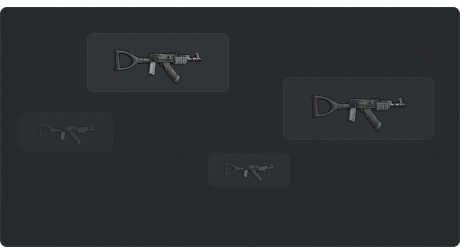
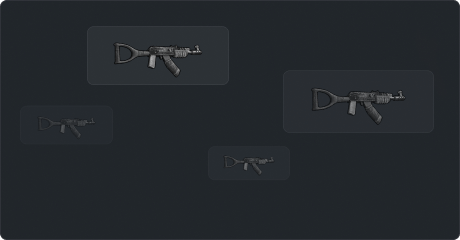
update files

diff --git a/src/styles/WhySection.css b/src/styles/WhySection.css
@@ -1,5 +1,5 @@
 .why-section {
-  padding: 100px 0;
+  padding: 60px 0 100px 0;
   position: relative;
   overflow: hidden;
 }
@@ -23,7 +23,7 @@
   left: 0;
   width: 100%;
   height: 100%;
-  background: rgba(28, 31, 35, 0.9);
+  background-color: rgba(10, 10, 10, 0.8);;
 }
 
 .why-container {
@@ -79,13 +79,17 @@
 
 /* Общие стили карточек */
 .why-card {
+  /* display: grid; */
+  display: flex;
+  flex-direction: column;
+  height: 100%;
+  /* position: relative; */
+  padding-bottom: 60px;
   background: rgba(255, 255, 255, 0.05);
   border: 1px solid rgba(255, 255, 255, 0.1);
   border-radius: 12px;
-  padding: 24px;
+  padding: 0px 23px 25px 20px;
   transition: all 0.3s ease;
-  display: flex;
-  flex-direction: column;
   overflow: hidden;
   box-sizing: border-box; /* Важно для правильного расчета размеров */
 }
@@ -97,33 +101,36 @@
   box-shadow: 0 10px 20px rgba(255, 68, 68, 0.2);
 }
 
-.card-header {
-  margin-bottom: 16px;
-}
-
 .card-title {
-  font-size: 20px;
+  font-size: 34px;
+  line-height: 1.1;
   font-weight: 700;
   color: #FFFFFF;
-  margin-bottom: 8px;
-}
-
-.card-price {
-  font-size: 24px;
-  font-weight: 800;
-  color: #FF4444;
-  display: block;
 }
 
 .card-description {
-  font-size: 14px;
+  margin-top: 5px;
+  font-size: 18px;
   color: rgba(255, 255, 255, 0.7);
   line-height: 1.6;
   flex-grow: 1;
 }
 
+.card-1,
+.card-2,
+.card-3,
+.card-4,
+.card-5,
+.card-6, .card-header {
+  display: flex;
+  flex-direction: column;
+  justify-content: end;
+  height: 100%; /* Занимает всю высоту карточки */
+}
+
 /* Карточка 1: 364px × 500px (высота 2 блока) */
 .card-1 {
+  margin-top: auto;
   grid-column: 1 / 2;
   grid-row: 1 / 3;
   width: 364px;

diff --git a/src/components/WhySection.jsx b/src/components/WhySection.jsx
@@ -5,7 +5,7 @@ const WhySection = () => {
   return (
     <section className="why-section" id="why">
       <div className="why-background">
-        {/* <div className="bg-overlay"></div> */}
+        <div className="bg-overlay"></div>
       </div>
 
       <div className="why-container">
@@ -26,9 +26,9 @@ const WhySection = () => {
               <div className="card-header">
                 <h3 className="card-title">Обширный выбор</h3>
               </div>
-              <p className="card-description">
-                Мы предлагаем читы для самых различных игр, включая популярные игры.
-              </p>
+                <p className="card-description">
+                  Мы предлагаем читы для самых различных игр, включая популярные игры.
+                </p>
             </div>
 
             <div className="why-card card-2">

diff --git a/src/styles/MainSection.css b/src/styles/MainSection.css
@@ -1,6 +1,6 @@
 .main-section {
   /* font-family: 'Gilroy', sans-serif; */
-  min-height: calc(100vh - 70px);
+  height: calc(100vh - 350px);
   display: flex;
   align-items: center;
   padding: 60px 0;
@@ -22,7 +22,7 @@
   z-index: 1;
 }
 
-.background-overlay {
+/* .background-overlay {
   position: absolute;
   top: 0;
   left: 0;
@@ -30,12 +30,12 @@
   height: 100%;
   background: linear-gradient(
     135deg,
-    rgba(28, 31, 35, 0.9) 0%,
-    rgba(28, 31, 35, 0.7) 50%,
-    rgba(28, 31, 35, 0.95) 100%
+    rgba(255, 0, 0, 0.9) 0%,
+    rgba(255, 0, 0, 0.7) 50%,
+    rgba(255, 0, 0, 0.95) 100%
   );
   z-index: 2;
-}
+} */
 
 .main-container {
   max-width: 1420px;
